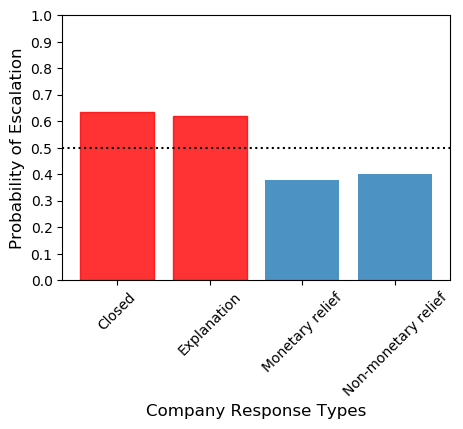
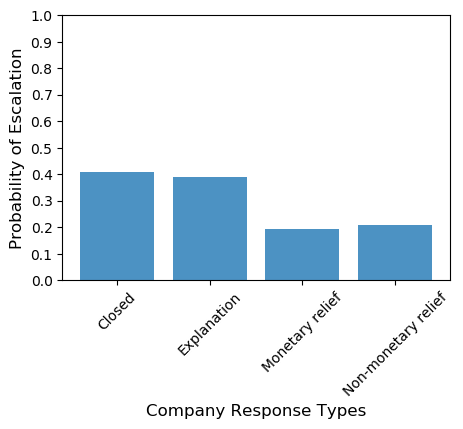
tune fig

Changed region(s): [[0.1512, 0.2424, 0.5443, 0.6667], [0.5745, 0.3939, 0.9374, 0.5455]]

diff --git a/templates/index.html b/templates/index.html
@@ -141,7 +141,7 @@
                         <p>Escalation Probability with Different Responses</p>
                     </div>
                     <div>
-                        <img src="{{ url_for('static', filename = escalation_prob_img)}}"  width=500 height=500/>
+                        <img src="{{ url_for('static', filename=escalation_prob_img)}}"  width=500 height=500/>
                     </div>
                 </div>
             </div>

diff --git a/ComplaintsAnalysis/Predictor.py b/ComplaintsAnalysis/Predictor.py
@@ -108,10 +108,11 @@ class Predictor:
         data["Company Response"] = response_types
         data["Probability of Escalation"] = predict_probability_list
 
+        escalation_prob_thresh = 0.5
         plt.figure(figsize=(5, 5))
         barlist = plt.bar(response_types, predict_probability_list, alpha=0.8)
         for i in np.arange(len(predict_probability_list)):
-            if predict_probability_list[i] >= 0.5:
+            if predict_probability_list[i] >= escalation_prob_thresh:
                 barlist[i].set_color('r')
 
         plt.ylabel('Probability of Escalation', fontsize=12)
@@ -121,8 +122,20 @@ class Predictor:
         plt.gcf().subplots_adjust(bottom=0.35)
         plt.savefig(escalation_prob_fig, bbox_inches='tight')
 
-        # Suggest the response type to be the one with minimum probability to escalate
-        suggested_response = response_types[predict_probability_list.index(min(predict_probability_list))]
+        # Suggest the response type not to be the one with minimum probability to escalate,
+        # because money-relief will always be the one with lowest probabilty. However, money
+        # relief need cost. Current criteria is to pick the one with max prob but lower than
+        # a given threshold
+        suggested_prob_thresh = escalation_prob_thresh - 0.15
+        min_prob = min(predict_probability_list)
+        suggested_index = predict_probability_list.index(min(predict_probability_list))
+        for index in np.arange(len(predict_probability_list)):
+            if (predict_probability_list[index] < suggested_prob_thresh) & \
+                    (predict_probability_list[index] > min_prob):
+                min_prob = predict_probability_list[index]
+                suggested_index = index
+
+        suggested_response = response_types[suggested_index]
 
         return escalation_prob_fig, suggested_response, predict_probability_list
 

diff --git a/server.py b/server.py
@@ -12,7 +12,7 @@ from ComplaintsAnalysis.Predictor import Predictor
 
 app = Flask(__name__)
 
-#prepare the model
+# prepare the model
 predictor = Predictor()
 print('model is ready')
 
